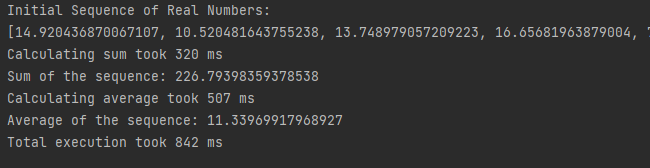
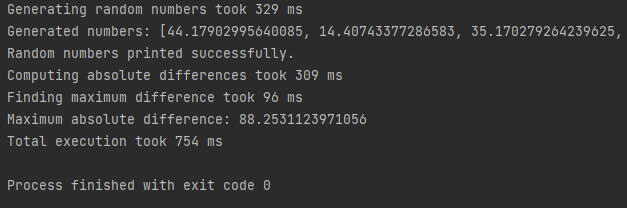
Update task4

diff --git a/src/Task_3/subtask_2/Main.java b/src/Task_3/subtask_2/Main.java
@@ -11,43 +11,54 @@ public class Main {
     public static void main(String[] args) {
         long start = System.currentTimeMillis();
 
-        double[] sequence = new double[20];
-        Random rand = new Random();
-        for (int i = 0; i < sequence.length; i++) {
-            sequence[i] = rand.nextDouble() * 20;
-        }
-
-        System.out.println("Initial Sequence of Real Numbers:");
-        System.out.println(Arrays.toString(sequence));
-
-        CompletableFuture<Double> sumFuture = CompletableFuture.supplyAsync(() -> {
+        CompletableFuture<List<Double>> randomNumbersFuture = CompletableFuture.supplyAsync(() -> {
             CalcTime.startTracking();
-            double sum = 0;
-            for (double num : sequence) {
-                sum += num;
+            Random random = new Random();
+            List<Double> numbers = new ArrayList<>();
+            for (int i = 0; i < 20; i++) {
+                numbers.add(random.nextDouble() * 100);
                 SimulateDelay.sleep(10);
             }
-            CalcTime.printElapsedTime("Calculating sum");
-            return sum;
+            CalcTime.printElapsedTime("Generating random numbers");
+            return numbers;
         });
 
-        CompletableFuture<Double> averageFuture = sumFuture.thenApplyAsync(sum -> {
+        CompletableFuture<List<Double>> differencesFuture = randomNumbersFuture.thenApplyAsync(numbers -> {
             CalcTime.startTracking();
-            double average = sum / sequence.length;
-            SimulateDelay.sleep(500);
-            CalcTime.printElapsedTime("Calculating average");
-            return average;
+            List<Double> differences = new ArrayList<>();
+            for (int i = 0; i < numbers.size() - 1; i++) {
+                differences.add(Math.abs(numbers.get(i) - numbers.get(i + 1)));
+                SimulateDelay.sleep(10);
+            }
+            CalcTime.printElapsedTime("Computing absolute differences");
+            return differences;
         });
 
-        sumFuture.thenAcceptAsync(sum -> {
-            System.out.println("Sum of the sequence: " + sum);
+        CompletableFuture<Double> maxDifferenceFuture = differencesFuture.thenApplyAsync(differences -> {
+            CalcTime.startTracking();
+            double maxDifference = 0.0;
+            for (double difference : differences) {
+                if (difference > maxDifference) {
+                    maxDifference = difference;
+                    SimulateDelay.sleep(10);
+                }
+            }
+            CalcTime.printElapsedTime("Finding maximum difference");
+            return maxDifference;
         });
 
-        averageFuture.thenAcceptAsync(average -> {
-            System.out.println("Average of the sequence: " + average);
+        CompletableFuture<Void> printResultsFuture = randomNumbersFuture.thenAcceptAsync(numbers -> {
+            System.out.println("Generated numbers: " + Arrays.toString(numbers.toArray()));
+        }).thenRunAsync(() -> {
+            System.out.println("Random numbers printed successfully.");
         });
 
-        CompletableFuture.allOf(sumFuture, averageFuture).join();
+        CompletableFuture<Void> printMaxDifferenceFuture = maxDifferenceFuture.thenAcceptAsync(maxDifference -> {
+            System.out.println("Maximum absolute difference: " + maxDifference);
+        });
+
+        CompletableFuture<Void> allTasks = CompletableFuture.allOf(printResultsFuture, printMaxDifferenceFuture);
+        allTasks.join();
 
         long elapsed = System.currentTimeMillis() - start;
         System.out.println("Total execution took " + elapsed + " ms");

diff --git a/README.md b/README.md
@@ -35,8 +35,8 @@
 
 ### Друге завдання
 
-У цьому завданні генерується масив дійсних чисел. Після цього над ним виконуються дві операції - пошук суми
-та середьного значення. Обидві операції виконуються асинхронно. Після цього виводиться результат.
+У цьому завданні генерується масив дійсних чисел. Після цього над ним виконуються дві операції - Обчислення абсолютної
+різниці та пошук максимальної різниці. Обидві операції виконуються асинхронно. Після цього виводиться результат.
 
 Результати:
 
